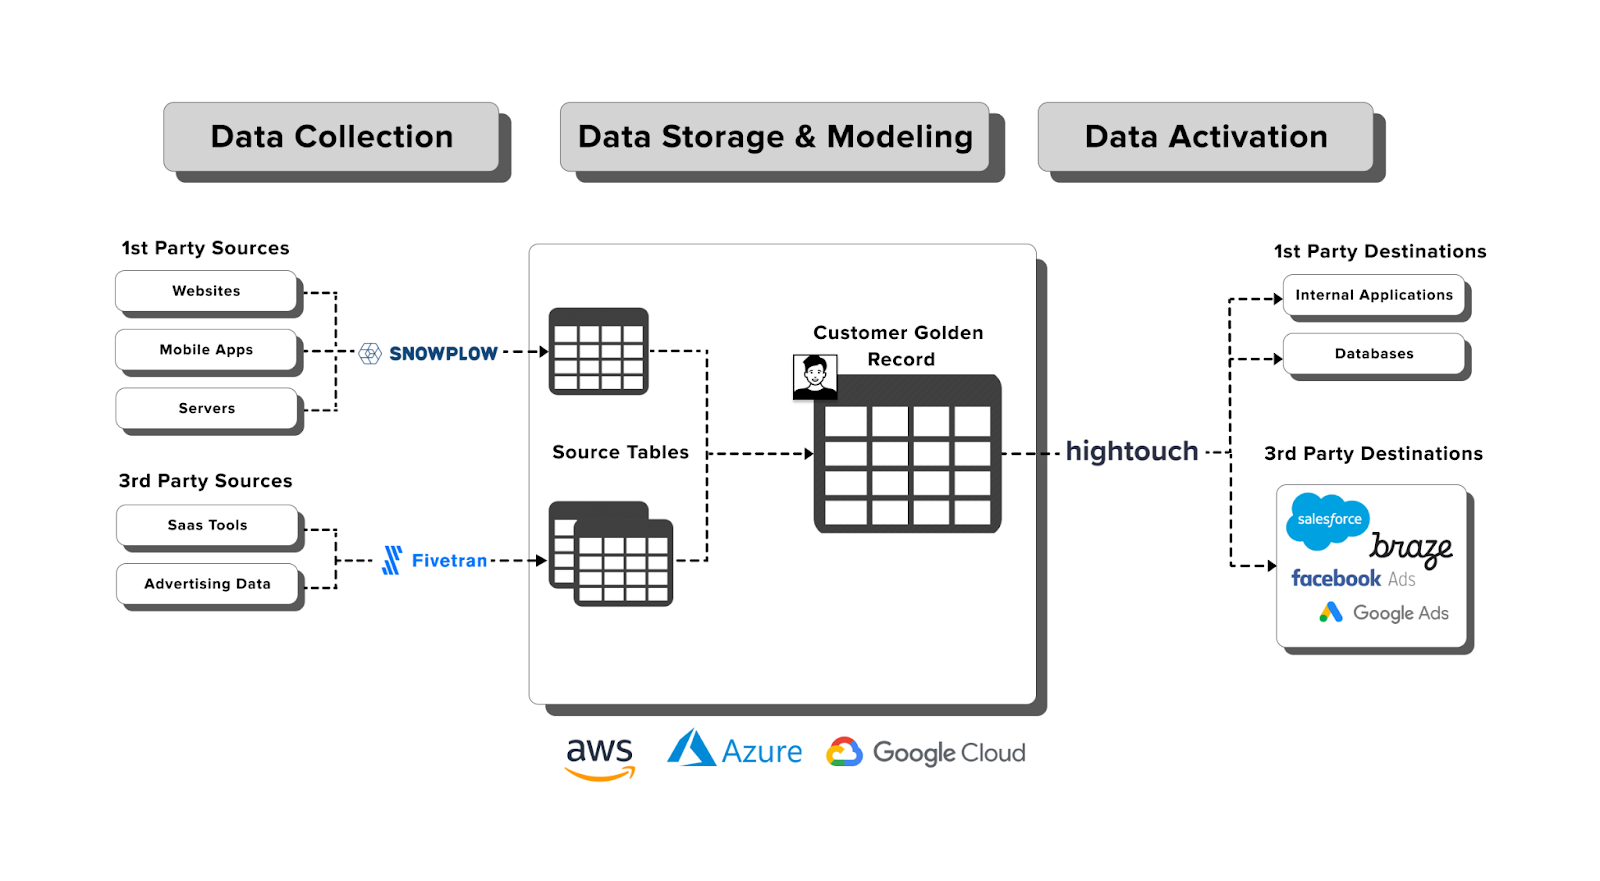
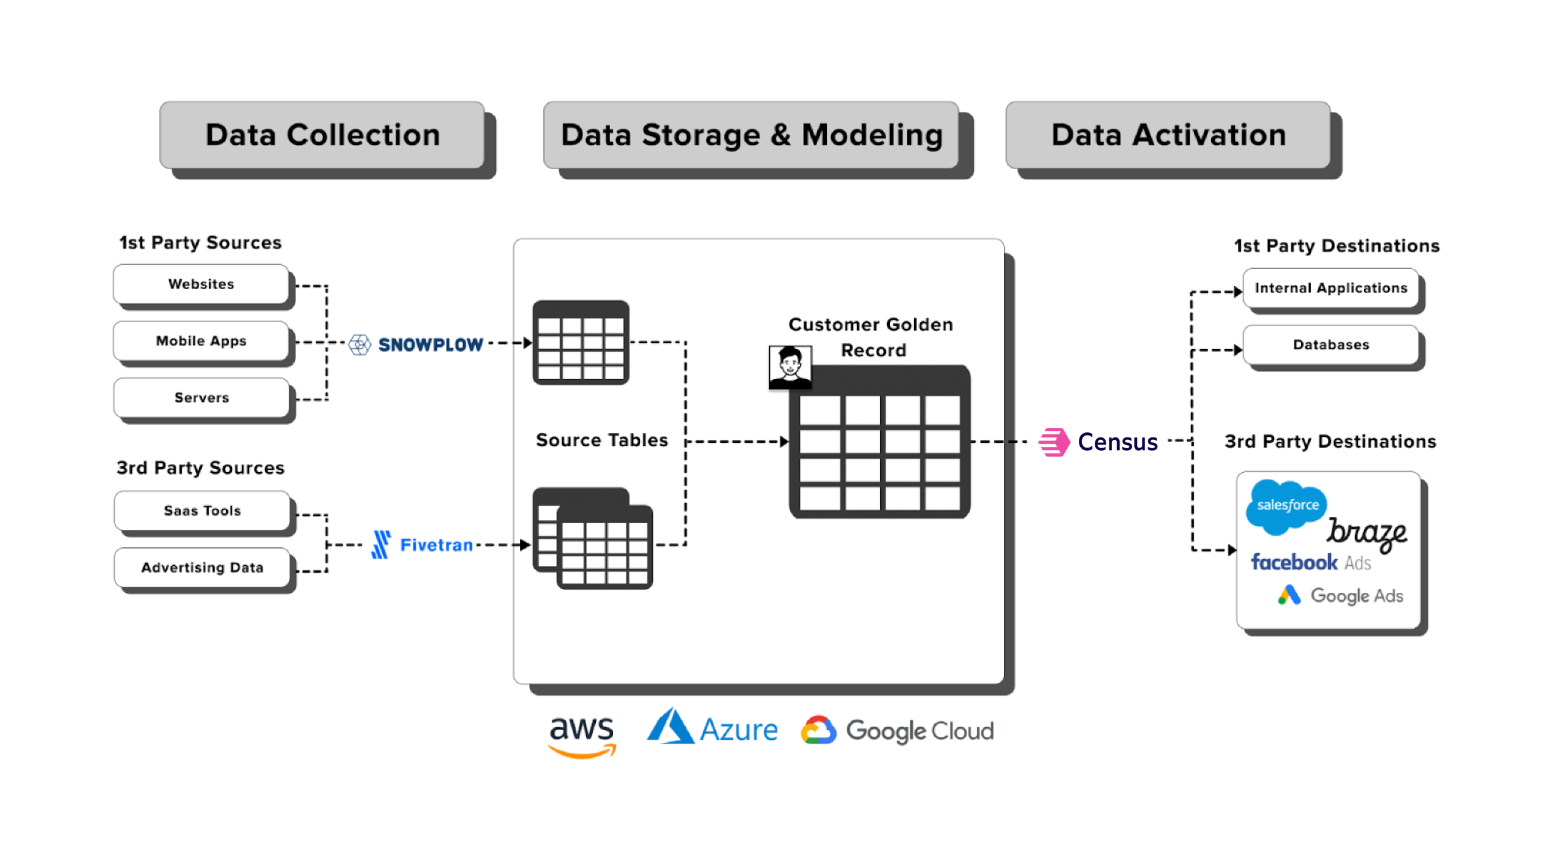
Add Census for data activation

diff --git a/content/composable-cdp-with-predictive-ml-modeling/data_activation/audiences.md b/content/composable-cdp-with-predictive-ml-modeling/data_activation/audiences.md
@@ -3,13 +3,22 @@ title = "Create an Audience"
 weight = 2
 +++
 
-#### **Step 1:** Create a parent model
+#### **Step 1:** Create your Models
 
-First you need to create a [parent model table](https://hightouch.com/docs/audiences/schema#the-parent-model-table) for the audiences to be built off. This can be based on your out-of-the-box Snowplow modelled `snowplow_web_users` table or any custom user tables you have built.
+First you need to create a [model](https://docs.getcensus.com/basics/data-models-and-entities/models) based on your out-of-the-box Snowplow modelled `snowplow_web_users` table or any custom user tables you have built.
+Create another model for the user propensity scores table you created in the previous chapter, `snowplow_user_propensity_scores`.
 
-#### **Step 2:** Audience builder
+![census_new_model](../images/census_new_model.png)
 
-Now you can build an audience using columns from your parent model. In this example we are targeting users in the awareness stage based on the following criteria:
+#### **Step 2:** Create Entities
+
+Secondly you will need to create [Entities](https://docs.getcensus.com/basics/data-models-and-entities/entities) for the audiences to be built off. Base these Entities off the models you created in the previous step. Finally add a 1:1 relationship between the two, joining on `user_id`.
+
+![census_entity_relationship](../images/census_entity_relationship.png)
+
+#### **Step 3:** Audience Hub
+
+Now you can build an audience using columns from your newly created Entities. In this example we are targeting users in the awareness stage based on the following criteria:
 * First time on website
 * Did not arrive from a marketing campaign
 * **High** propensity score
@@ -18,28 +27,4 @@ Now you can build an audience using columns from your parent model. In this exam
 Marketing to high propensity to convert users (using your ML model output created in the previous [Predictive ML Models]({{< ref predictive_ml_models >}}) chapter) will lead to higher conversion for less advertising spend!
 {{% /notice %}}
 
-![hightouch_audience_builder](../images/hightouch_audience_builder.png?width=30pc)
-
-You can see we have utilized a [related model](https://hightouch.com/docs/audiences/schema#other-objects) *User Propensity Scores*. This model is based on the table of propensity scores outputted by your ML model. You can join other source tables like this to your user parent model.
-
-#### **Step 3:** Add Hightouch events (Optional)
-It can be useful to flag key user behavior like adding a product to basket or filling out a form as a Hightouch [Event](https://hightouch.com/docs/audiences/schema#events). Similarly to related models, these can then be joined onto the parent model to filter your audiences.
-
-For example, you may want to filter an audience by, if or when the user had viewed a certain page on your website. You can make this an audience event using the following query on your `snowplow_web_page_views` table:
-
-```sql
-select 
-  user_id,
-  page_view_id,
-  start_tstamp
-from dbt_cloud_derived.snowplow_web_page_views
-where page_urlpath like '/get-started/%'
-```
-Once you have created the event and added the relationship to our parent model, you can use it as an audience filter.
-![hightouch_example_event](../images/hightouch_example_event.png?width=30pc)
-
-#### **Step 4:** Audience Splits (Optional)
-
-Use [Audience Splits](https://hightouch.com/blog/audience-splits) to manage A/B and  multivariate testing across your channels. You can also add stratification variables to ensure that the randomized groups of users are distributed as desired. 
-
-![hightouch_splits](../images/hightouch_splits.png?width=40pc)
+![census_audience_builder](../images/census_audience_builder.png)

diff --git a/content/composable-cdp-with-predictive-ml-modeling/_index.md b/content/composable-cdp-with-predictive-ml-modeling/_index.md
@@ -15,7 +15,7 @@ This accelerator guides you through building an advanced Composable Customer Dat
 * [**Snowplow**](https://snowplow.io/) for creating user behavioral data from your product.
 * [**Databricks DeltaLake**](https://www.databricks.com/product/delta-lake-on-databricks) or [**Snowflake**](https://www.snowflake.com/en/) to store the data.
 * [**Databricks** and **MLFlow**](https://www.databricks.com/product/managed-mlflow) or [**Snowpark**](https://www.snowflake.com/en/data-cloud/snowpark/) for training and executing sophisticated ML predictions to determine a likelihood of conversion.
-* [**Hightouch**](https://hightouch.com/) activation platform to synchronize the audience segment with marketing tools (like Braze, Salesforce and Facebook Ads) and accelerate their conversion into qualified leads.
+* [**Census**](https://www.getcensus.com/) activation platform to synchronize the audience segment with marketing tools (like Braze, Salesforce and Facebook Ads) and accelerate their conversion into qualified leads.
 
 Once finished, you will be able to use predictive models to achieve a competitive advantage from customer behavior data on your website, driving higher return on ad spend.
 
@@ -39,8 +39,8 @@ In this accelerator we don't go into detail on setting these up, see [Fivetran's
 
 In approximately 1 working day (~6 working hours) you can achieve the following:
 - **Build a predictive model -** Build a machine learning model that can accurately predict conversion events using features collected from Snowplow's out-of-the-box modelled data
-- **Data activation -** With Hightouch connected to your rich user data, you can enable your marketing teams to effortlessly build new audiences and sync to their needed destinations
-- **Next steps -** Productionalize your ML model and visualize ad campaign performance synced from your Hightouch audiences
+- **Data activation -** With Census connected to your rich user data, you can enable your marketing teams to effortlessly build new audiences and sync to their needed destinations
+- **Next steps -** Productionalize your ML model and visualize ad campaign performance synced from your Census audiences
 
 {{<mermaid>}}
 gantt
@@ -70,8 +70,8 @@ Complete our [Advanced Analytics for Web](https://docs.snowplow.io/accelerators/
 
 **Data Activation**
 - Snowplow modelled web data (*page views*, *sessions* and *users*) stored in your data warehouse
-- Set `user_id` in the tracker to your business user identifier (see [docs](https://docs.snowplow.io/docs/collecting-data/collecting-from-own-applications/javascript-trackers/javascript-tracker/javascript-tracker-v2/tracker-setup/other-parameters-2/#setting-the-user-id)) so that the user can be identified and connected to your Hightouch destinations
-- Hightouch account and a user with admin role
+- Set `user_id` in the tracker to your business user identifier (see [docs](https://docs.snowplow.io/docs/collecting-data/collecting-from-own-applications/javascript-trackers/javascript-tracker/javascript-tracker-v2/tracker-setup/other-parameters-2/#setting-the-user-id)) so that the user can be identified and connected to your Census destinations
+- Census account and a user with admin role
 
 #### What you will build
 
@@ -79,4 +79,4 @@ A propensity to convert ML model that empowers you to intelligently market campa
 
 ![composable_cdp_workflow](next_steps/images/composable_cdp_workflow.png?width=100pc)
 
-![ad_campaign_dashboard](next_steps/images/ad_campaign_dashboard_hightouch.png?width=100pc)
+![ad_campaign_dashboard](next_steps/images/ad_campaign_dashboard_census.png?width=100pc)

diff --git a/content/composable-cdp-with-predictive-ml-modeling/data_activation/connect.md b/content/composable-cdp-with-predictive-ml-modeling/data_activation/connect.md
@@ -1,23 +1,18 @@
 +++
-title = "Connect Data Warehouse to Hightouch"
+title = "Connect Data Warehouse to Census"
 weight = 1
 +++
 
-You can easily connect to Hightouch from your data warehouse using either [Databricks Partner Connect](https://docs.databricks.com/integrations/partner-connect/reverse-etl.html) or [Snowflake Partner Connect](https://hightouch.com/blog/hightouch-snowflake-partner-connect).
+You can easily connect to Census from your data warehouse using either [Databricks Partner Connect](https://docs.databricks.com/integrations/partner-connect/reverse-etl.html) or [Snowflake Partner Connect](https://www.getcensus.com/blog/snowflake-partner-connect).
 
 1. Make sure your data warehouse account, workspace, and the signed-in user all meet the necessary requirements for Partner Connect.
 2. In the sidebar, click **Partner Connect**.
-3. Find the Hightouch tile. If the tile has a check mark icon, stop here, as your workspace is already connected.
+3. Find the Census tile. If the tile has a check mark icon, stop here, as your workspace is already connected. Otherwise, follow the on-screen directions to finish creating the connection.
 
-![hightouch_partner_connect](../images/hightouch_partner_connect.png?width=30pc)
+![census_partner_connect](../images/census_partner_connect.png?width=40pc)
 
-&nbsp;&nbsp;&nbsp;&nbsp;&nbsp;&nbsp;&nbsp;&nbsp;&nbsp;&nbsp;&nbsp;
-Otherwise, follow the on-screen directions to finish creating the connection.
+Once set-up you should see your new connection under the Sources tab in Census:
 
-![hightouch_partner_connect_instructions](../images/hightouch_partner_connect_instructions.png?width=50pc)
+![census_sources](../images/census_sources.png?width=40pc)
 
-Once set-up you should see your new connection under the Sources tab in Hightouch:
-
-![hightouch_sources](../images/hightouch_sources.png?width=40pc)
-
-Alternatively you can connect to Hightouch manually with [Databricks](https://docs.databricks.com/integrations/reverse-etl/hightouch.html#connect-to-hightouch-manually) or [Snowflake](https://hightouch.com/docs/sources/snowflake).
+Alternatively you can connect to Census manually with [Databricks](https://docs.getcensus.com/sources/databricks) or [Snowflake](https://docs.getcensus.com/sources/snowflake).

diff --git a/content/composable-cdp-with-predictive-ml-modeling/next_steps/visulize_campaign_performance.md b/content/composable-cdp-with-predictive-ml-modeling/next_steps/visulize_campaign_performance.md
@@ -3,7 +3,7 @@ title = "Visualize Ad Campaign Performance"
 weight = 2
 +++
 
-At this stage you will have at least one campaign up and running synced from a Hightouch audience.
+At this stage you will have at least one campaign up and running synced from a Census audience.
 
 #### **Step 1:** Attribution in Snowplow
 Snowplow allows you to gain full control of your attribution.
@@ -36,8 +36,8 @@ Join your ingested campaign data with your Snowplow tracked attribution to build
 
 ![ad_campaign_dashboard](../images/ad_campaign_dashboard.png?width=100pc)
 
-#### **Step 4:** Drill into Hightouch activated campaigns
-Drill deeper into the performance of your Hightouch activated campaigns.
-Below is an example of campaigns activated by two Hightouch audiences, *Awareness (ML Based)* and *Awareness (Rule Based)*, that have been running side by side. You can see the campaigns using ML outputs (targeting high propensity visitors) are achieving a greater ROI.
+#### **Step 4:** Drill into Census activated campaigns
+Drill deeper into the performance of your Census activated campaigns.
+Below is an example of campaigns activated by two Census audiences, *Awareness (ML Based)* and *Awareness (Rule Based)*, that have been running side by side. You can see the campaigns using ML outputs (targeting high propensity visitors) are achieving a greater ROI.
 
-![ad_campaign_dashboard](../images/ad_campaign_dashboard_hightouch.png?width=100pc)
+![ad_campaign_dashboard](../images/ad_campaign_dashboard_census.png?width=100pc)

diff --git a/content/composable-cdp-with-predictive-ml-modeling/data_activation/sync_and_schedule.md b/content/composable-cdp-with-predictive-ml-modeling/data_activation/sync_and_schedule.md
@@ -5,15 +5,15 @@ weight = 3
 
 #### **Step 1:** Sync your audiences to your destinations
 
-After setting up your required [destinations](https://hightouch.com/integrations) in Hightouch you can sync up your new audiences. 
+After setting up your required [destinations](https://docs.getcensus.com/destinations/overview) in Census you can sync up your new audiences.
 
-![hightouch_syncs](../images/hightouch_syncs.png?width=40pc)
+![census_syncs](../images/census_syncs.png?width=40pc)
 
 
 #### **Step 2:** Schedule your audience syncs
 
-It is important that your audiences connected to these third party tools are always up to date and in sync with our Snowplow web data in Databricks. 
+It is important that your audiences connected to these third party tools are always up to date and in sync with your Snowplow web data in the data warehouse.
 
-One way you can ensure this is by using the [dbt Cloud extension](https://hightouch.com/docs/syncs/dbt-cloud) to trigger syncs after the dbt Snowplow web model job finishes and the derived tables are updated.
+One way you can ensure this is by using the [dbt Cloud sync trigger](https://docs.getcensus.com/basics/core-concept/triggering-syncs#dbt-cloud) to trigger syncs after the dbt Snowplow web model job finishes and the derived tables are updated.
 
-![hightouch_dbt_schedule](../images/hightouch_dbt_schedule.png?width=40pc)
+![census_dbt_cloud_trigger](../images/census_dbt_cloud_trigger.png?width=40pc)

diff --git a/content/composable-cdp-with-predictive-ml-modeling/next_steps/summary.md b/content/composable-cdp-with-predictive-ml-modeling/next_steps/summary.md
@@ -10,7 +10,7 @@ Let's go over what you have built:
 1. From the [Advanced Analytics for Web](https://docs.snowplow.io/accelerators/web/) accelerator, you have created and modeled Snowplow behavioral data from your website, stored in your data warehouse
 2. Collected user features and trained a propensity to convert machine learning model
 3. Productionalized your ML model, saving your model output into a table of user propensity scores
-4. Connected your data warehouse to Hightouch and built an audience using your user propensity scores
+4. Connected your data warehouse to Census and built an audience using your user propensity scores
 5. Synched and scheduled your audience to your chosen marketing tools and launched at least one ad campaign targeting high propensity users
 6. Built reporting on your ad campaign spend, highlighting the value of your ML model
 

diff --git a/content/composable-cdp-with-predictive-ml-modeling/predictive_ml_models/db_using_your_model.md b/content/composable-cdp-with-predictive-ml-modeling/predictive_ml_models/db_using_your_model.md
@@ -11,4 +11,4 @@ Now that your model is built and saved in MLflow registry, here is how you might
 
 {{< jupyter databricks_deploying_model 500 >}}
 
-Now you are ready to use your model output for activation via Hightouch. The next chapter, [Data Activation]({{< ref data_activation >}}), guides you through how to target high propensity visitors to optimize ad spend.
+Now you are ready to use your model output for activation via Census. The next chapter, [Data Activation]({{< ref data_activation >}}), guides you through how to target high propensity visitors to optimize ad spend.

diff --git a/content/composable-cdp-with-predictive-ml-modeling/predictive_ml_models/sf_using_your_model.md b/content/composable-cdp-with-predictive-ml-modeling/predictive_ml_models/sf_using_your_model.md
@@ -13,4 +13,4 @@ Clone this [notebook](https://github.com/snowplow/composable-cdp-with-predictive
 
 {{< jupyter snowflake_deploying_model 500 >}}
 
-Now you are ready to use your model output for activation via Hightouch. The next chapter, [Data Activation]({{< ref data_activation >}}), guides you through how to target high propensity visitors to optimize ad spend.
+Now you are ready to use your model output for activation via Census. The next chapter, [Data Activation]({{< ref data_activation >}}), guides you through how to target high propensity visitors to optimize ad spend.

diff --git a/content/composable-cdp-with-predictive-ml-modeling/next_steps/_index.md b/content/composable-cdp-with-predictive-ml-modeling/next_steps/_index.md
@@ -16,4 +16,4 @@ flowchart LR
     style id3 fill:#f5f5f5,stroke:#6638B8,stroke-width:3px
 {{</mermaid >}}
 
-Now that you have created a predictive model it is time to look at putting it into production. This chapter also takes a look at tracking ad campaign performance once you have a campaign running synched from a Hightouch audience.
+Now that you have created a predictive model it is time to look at putting it into production. This chapter also takes a look at tracking ad campaign performance once you have a campaign running synched from a Census audience.

diff --git a/content/composable-cdp-with-predictive-ml-modeling/data_activation/_index.md b/content/composable-cdp-with-predictive-ml-modeling/data_activation/_index.md
@@ -16,4 +16,4 @@ flowchart LR
     style id3 fill:#f5f5f5,stroke:#333,stroke-width:1px
 {{</mermaid >}}
 
-In this chapter you will learn how to set-up Hightouch to enable your teams to easily build new audiences based on Snowplow's rich behavioral data and sync to their needed destinations.
+In this chapter you will learn how to set-up Census to enable your teams to easily build new audiences based on Snowplow's rich behavioral data and sync to their needed destinations.
